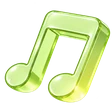
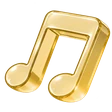
style: 헤더 로고 음표 색을 골드로 변경
Claude-Session: https://claude.ai/code/session_01T6nMnFc5U7nMHTjmumuihz

diff --git a/index.html b/index.html
@@ -43,10 +43,10 @@
   <link rel="preconnect" href="https://fonts.googleapis.com">
   <link rel="preconnect" href="https://fonts.gstatic.com" crossorigin>
   <link rel="stylesheet" href="https://fonts.googleapis.com/css2?family=Unbounded:wght@400;600;800&family=IBM+Plex+Sans+KR:wght@400;500;600&family=JetBrains+Mono:wght@400;500&display=swap">
-  <link rel="stylesheet" href="styles.css?v=20261031f">
+  <link rel="stylesheet" href="styles.css?v=20261031g">
 
   <!-- Script -->
-  <script src="script.js?v=20261031f" defer></script>
+  <script src="script.js?v=20261031g" defer></script>
 
   <!-- 구조화 데이터 -->
   <script type="application/ld+json">
@@ -78,7 +78,7 @@
 
 <header class="top">
   <div class="wrap">
-    <a class="mark" href="#top" aria-label="STÉRO 처음으로"><span class="mark-wave" aria-hidden="true"><svg class="w" viewBox="0 0 340 40" preserveAspectRatio="none"><path d="M0 22.5 L4 24.5 L8 26.2 L12 27.6 L16 28.6 L20 29.3 L24 29.6 L28 29.7 L32 29.5 L36 29.2 L40 28.8 L44 28.3 L48 27.8 L52 27.4 L56 26.9 L60 26.5 L64 26.1 L68 25.7 L72 25.2 L76 24.6 L80 23.8 L84 22.8 L88 21.6 L92 20.2 L96 18.6 L100 16.8 L104 14.9 L108 13.0 L112 11.2 L116 9.5 L120 8.1 L124 7.1 L128 6.4 L132 6.2 L136 6.5 L140 7.3 L144 8.6 L148 10.3 L152 12.2 L156 14.5 L160 16.8 L164 19.2 L168 21.4 L172 23.5 L176 25.4 L180 26.9 L184 28.1 L188 29.0 L192 29.5 L196 29.7 L200 29.6 L204 29.4 L208 29.0 L212 28.5 L216 28.1 L220 27.6 L224 27.1 L228 26.7 L232 26.3 L236 25.9 L240 25.5 L244 24.9 L248 24.2 L252 23.3 L256 22.2 L260 20.9 L264 19.4 L268 17.7 L272 15.9 L276 14.0 L280 12.1 L284 10.3 L288 8.8 L292 7.5 L296 6.7 L300 6.3 L304 6.3 L308 6.9 L312 7.9 L316 9.4 L320 11.2 L324 13.3 L328 15.6 L332 18.0 L336 20.3 L340 22.5"/></svg><svg class="l" viewBox="0 0 340 40" preserveAspectRatio="none"><path d="M0 25.6 L4 25.6 L8 25.3 L12 24.5 L16 23.3 L20 21.9 L24 20.3 L28 18.9 L32 17.6 L36 16.9 L40 16.7 L44 17.1 L48 18.1 L52 19.6 L56 21.3 L60 23.1 L64 24.8 L68 26.1 L72 26.9 L76 27.1 L80 26.8 L84 25.9 L88 24.7 L92 23.3 L96 21.9 L100 20.6 L104 19.7 L108 19.0 L112 18.8 L116 18.8 L120 19.0 L124 19.4 L128 19.9 L132 20.4 L136 20.9 L140 21.4 L144 21.9 L148 22.5 L152 23.1 L156 23.8 L160 24.5 L164 25.1 L168 25.5 L172 25.7 L176 25.5 L180 24.9 L184 23.9 L188 22.6 L192 21.1 L196 19.6 L200 18.2 L204 17.2 L208 16.7 L212 16.8 L216 17.5 L220 18.8 L224 20.4 L228 22.2 L232 24.0 L236 25.5 L240 26.6 L244 27.1 L248 27.0 L252 26.4 L256 25.3 L260 24.0 L264 22.6 L268 21.2 L272 20.1 L276 19.3 L280 18.9 L284 18.7 L288 18.9 L292 19.2 L296 19.7 L300 20.2 L304 20.7 L308 21.2 L312 21.7 L316 22.2 L320 22.8 L324 23.4 L328 24.1 L332 24.8 L336 25.3 L340 25.6"/></svg><svg class="r" viewBox="0 0 340 40" preserveAspectRatio="none"><path d="M0 24.6 L4 25.2 L8 25.1 L12 24.3 L16 23.2 L20 21.9 L24 20.6 L28 19.5 L32 18.6 L36 18.0 L40 17.6 L44 17.2 L48 16.9 L52 16.4 L56 15.8 L60 15.2 L64 14.8 L68 14.5 L72 14.7 L76 15.5 L80 16.8 L84 18.6 L88 20.8 L92 23.0 L96 25.0 L100 26.5 L104 27.1 L108 26.8 L112 25.5 L116 23.3 L120 20.5 L124 17.4 L128 14.5 L132 12.2 L136 10.6 L140 10.2 L144 10.7 L148 12.3 L152 14.6 L156 17.2 L160 19.9 L164 22.3 L168 24.0 L172 25.0 L176 25.2 L180 24.8 L184 23.8 L188 22.5 L192 21.2 L196 20.0 L200 19.0 L204 18.3 L208 17.8 L212 17.4 L216 17.1 L220 16.6 L224 16.1 L228 15.5 L232 15.0 L236 14.6 L240 14.6 L244 15.0 L248 16.1 L252 17.7 L256 19.7 L260 21.9 L264 24.1 L268 25.8 L272 26.9 L276 27.1 L280 26.3 L284 24.5 L288 22.0 L292 19.0 L296 15.9 L300 13.3 L304 11.3 L308 10.3 L312 10.3 L316 11.4 L320 13.4 L324 15.9 L328 18.6 L332 21.1 L336 23.2 L340 24.6"/></svg></span><img class="mark-icon" src="assets/images/site/icon-mark.webp" alt="" width="28" height="28">STÉRO</a>
+    <a class="mark" href="#top" aria-label="STÉRO 처음으로"><span class="mark-wave" aria-hidden="true"><svg class="w" viewBox="0 0 340 40" preserveAspectRatio="none"><path d="M0 22.5 L4 24.5 L8 26.2 L12 27.6 L16 28.6 L20 29.3 L24 29.6 L28 29.7 L32 29.5 L36 29.2 L40 28.8 L44 28.3 L48 27.8 L52 27.4 L56 26.9 L60 26.5 L64 26.1 L68 25.7 L72 25.2 L76 24.6 L80 23.8 L84 22.8 L88 21.6 L92 20.2 L96 18.6 L100 16.8 L104 14.9 L108 13.0 L112 11.2 L116 9.5 L120 8.1 L124 7.1 L128 6.4 L132 6.2 L136 6.5 L140 7.3 L144 8.6 L148 10.3 L152 12.2 L156 14.5 L160 16.8 L164 19.2 L168 21.4 L172 23.5 L176 25.4 L180 26.9 L184 28.1 L188 29.0 L192 29.5 L196 29.7 L200 29.6 L204 29.4 L208 29.0 L212 28.5 L216 28.1 L220 27.6 L224 27.1 L228 26.7 L232 26.3 L236 25.9 L240 25.5 L244 24.9 L248 24.2 L252 23.3 L256 22.2 L260 20.9 L264 19.4 L268 17.7 L272 15.9 L276 14.0 L280 12.1 L284 10.3 L288 8.8 L292 7.5 L296 6.7 L300 6.3 L304 6.3 L308 6.9 L312 7.9 L316 9.4 L320 11.2 L324 13.3 L328 15.6 L332 18.0 L336 20.3 L340 22.5"/></svg><svg class="l" viewBox="0 0 340 40" preserveAspectRatio="none"><path d="M0 25.6 L4 25.6 L8 25.3 L12 24.5 L16 23.3 L20 21.9 L24 20.3 L28 18.9 L32 17.6 L36 16.9 L40 16.7 L44 17.1 L48 18.1 L52 19.6 L56 21.3 L60 23.1 L64 24.8 L68 26.1 L72 26.9 L76 27.1 L80 26.8 L84 25.9 L88 24.7 L92 23.3 L96 21.9 L100 20.6 L104 19.7 L108 19.0 L112 18.8 L116 18.8 L120 19.0 L124 19.4 L128 19.9 L132 20.4 L136 20.9 L140 21.4 L144 21.9 L148 22.5 L152 23.1 L156 23.8 L160 24.5 L164 25.1 L168 25.5 L172 25.7 L176 25.5 L180 24.9 L184 23.9 L188 22.6 L192 21.1 L196 19.6 L200 18.2 L204 17.2 L208 16.7 L212 16.8 L216 17.5 L220 18.8 L224 20.4 L228 22.2 L232 24.0 L236 25.5 L240 26.6 L244 27.1 L248 27.0 L252 26.4 L256 25.3 L260 24.0 L264 22.6 L268 21.2 L272 20.1 L276 19.3 L280 18.9 L284 18.7 L288 18.9 L292 19.2 L296 19.7 L300 20.2 L304 20.7 L308 21.2 L312 21.7 L316 22.2 L320 22.8 L324 23.4 L328 24.1 L332 24.8 L336 25.3 L340 25.6"/></svg><svg class="r" viewBox="0 0 340 40" preserveAspectRatio="none"><path d="M0 24.6 L4 25.2 L8 25.1 L12 24.3 L16 23.2 L20 21.9 L24 20.6 L28 19.5 L32 18.6 L36 18.0 L40 17.6 L44 17.2 L48 16.9 L52 16.4 L56 15.8 L60 15.2 L64 14.8 L68 14.5 L72 14.7 L76 15.5 L80 16.8 L84 18.6 L88 20.8 L92 23.0 L96 25.0 L100 26.5 L104 27.1 L108 26.8 L112 25.5 L116 23.3 L120 20.5 L124 17.4 L128 14.5 L132 12.2 L136 10.6 L140 10.2 L144 10.7 L148 12.3 L152 14.6 L156 17.2 L160 19.9 L164 22.3 L168 24.0 L172 25.0 L176 25.2 L180 24.8 L184 23.8 L188 22.5 L192 21.2 L196 20.0 L200 19.0 L204 18.3 L208 17.8 L212 17.4 L216 17.1 L220 16.6 L224 16.1 L228 15.5 L232 15.0 L236 14.6 L240 14.6 L244 15.0 L248 16.1 L252 17.7 L256 19.7 L260 21.9 L264 24.1 L268 25.8 L272 26.9 L276 27.1 L280 26.3 L284 24.5 L288 22.0 L292 19.0 L296 15.9 L300 13.3 L304 11.3 L308 10.3 L312 10.3 L316 11.4 L320 13.4 L324 15.9 L328 18.6 L332 21.1 L336 23.2 L340 24.6"/></svg></span><img class="mark-icon" src="assets/images/site/icon-mark.webp?v=20261031g" alt="" width="28" height="28">STÉRO</a>
     <nav aria-label="시리즈">
       <a href="#music">Music</a><a href="#lite">Lite</a><a href="#studio">Studio</a><a href="#lab">Lab</a><a href="merge.html">채널 합성</a><a class="ig" href="https://www.instagram.com/stero_lite/" target="_blank" rel="noopener"><i aria-hidden="true"></i>Instagram</a>
     </nav>

diff --git a/merge.html b/merge.html
@@ -40,10 +40,10 @@
   <link rel="preconnect" href="https://fonts.googleapis.com">
   <link rel="preconnect" href="https://fonts.gstatic.com" crossorigin>
   <link rel="stylesheet" href="https://fonts.googleapis.com/css2?family=Unbounded:wght@400;600;800&family=IBM+Plex+Sans+KR:wght@400;500;600&family=JetBrains+Mono:wght@400;500&display=swap">
-  <link rel="stylesheet" href="styles.css?v=20261031f">
+  <link rel="stylesheet" href="styles.css?v=20261031g">
 
   <!-- Script -->
-  <script src="merge.js?v=20261031f" defer></script>
+  <script src="merge.js?v=20261031g" defer></script>
 
   <!-- 구조화 데이터 -->
   <script type="application/ld+json">
@@ -63,7 +63,7 @@
 
 <header class="top">
   <div class="wrap">
-    <a class="mark" href="index.html" aria-label="STÉRO 홈으로"><span class="mark-wave" aria-hidden="true"><svg class="w" viewBox="0 0 340 40" preserveAspectRatio="none"><path d="M0 22.5 L4 24.5 L8 26.2 L12 27.6 L16 28.6 L20 29.3 L24 29.6 L28 29.7 L32 29.5 L36 29.2 L40 28.8 L44 28.3 L48 27.8 L52 27.4 L56 26.9 L60 26.5 L64 26.1 L68 25.7 L72 25.2 L76 24.6 L80 23.8 L84 22.8 L88 21.6 L92 20.2 L96 18.6 L100 16.8 L104 14.9 L108 13.0 L112 11.2 L116 9.5 L120 8.1 L124 7.1 L128 6.4 L132 6.2 L136 6.5 L140 7.3 L144 8.6 L148 10.3 L152 12.2 L156 14.5 L160 16.8 L164 19.2 L168 21.4 L172 23.5 L176 25.4 L180 26.9 L184 28.1 L188 29.0 L192 29.5 L196 29.7 L200 29.6 L204 29.4 L208 29.0 L212 28.5 L216 28.1 L220 27.6 L224 27.1 L228 26.7 L232 26.3 L236 25.9 L240 25.5 L244 24.9 L248 24.2 L252 23.3 L256 22.2 L260 20.9 L264 19.4 L268 17.7 L272 15.9 L276 14.0 L280 12.1 L284 10.3 L288 8.8 L292 7.5 L296 6.7 L300 6.3 L304 6.3 L308 6.9 L312 7.9 L316 9.4 L320 11.2 L324 13.3 L328 15.6 L332 18.0 L336 20.3 L340 22.5"/></svg><svg class="l" viewBox="0 0 340 40" preserveAspectRatio="none"><path d="M0 25.6 L4 25.6 L8 25.3 L12 24.5 L16 23.3 L20 21.9 L24 20.3 L28 18.9 L32 17.6 L36 16.9 L40 16.7 L44 17.1 L48 18.1 L52 19.6 L56 21.3 L60 23.1 L64 24.8 L68 26.1 L72 26.9 L76 27.1 L80 26.8 L84 25.9 L88 24.7 L92 23.3 L96 21.9 L100 20.6 L104 19.7 L108 19.0 L112 18.8 L116 18.8 L120 19.0 L124 19.4 L128 19.9 L132 20.4 L136 20.9 L140 21.4 L144 21.9 L148 22.5 L152 23.1 L156 23.8 L160 24.5 L164 25.1 L168 25.5 L172 25.7 L176 25.5 L180 24.9 L184 23.9 L188 22.6 L192 21.1 L196 19.6 L200 18.2 L204 17.2 L208 16.7 L212 16.8 L216 17.5 L220 18.8 L224 20.4 L228 22.2 L232 24.0 L236 25.5 L240 26.6 L244 27.1 L248 27.0 L252 26.4 L256 25.3 L260 24.0 L264 22.6 L268 21.2 L272 20.1 L276 19.3 L280 18.9 L284 18.7 L288 18.9 L292 19.2 L296 19.7 L300 20.2 L304 20.7 L308 21.2 L312 21.7 L316 22.2 L320 22.8 L324 23.4 L328 24.1 L332 24.8 L336 25.3 L340 25.6"/></svg><svg class="r" viewBox="0 0 340 40" preserveAspectRatio="none"><path d="M0 24.6 L4 25.2 L8 25.1 L12 24.3 L16 23.2 L20 21.9 L24 20.6 L28 19.5 L32 18.6 L36 18.0 L40 17.6 L44 17.2 L48 16.9 L52 16.4 L56 15.8 L60 15.2 L64 14.8 L68 14.5 L72 14.7 L76 15.5 L80 16.8 L84 18.6 L88 20.8 L92 23.0 L96 25.0 L100 26.5 L104 27.1 L108 26.8 L112 25.5 L116 23.3 L120 20.5 L124 17.4 L128 14.5 L132 12.2 L136 10.6 L140 10.2 L144 10.7 L148 12.3 L152 14.6 L156 17.2 L160 19.9 L164 22.3 L168 24.0 L172 25.0 L176 25.2 L180 24.8 L184 23.8 L188 22.5 L192 21.2 L196 20.0 L200 19.0 L204 18.3 L208 17.8 L212 17.4 L216 17.1 L220 16.6 L224 16.1 L228 15.5 L232 15.0 L236 14.6 L240 14.6 L244 15.0 L248 16.1 L252 17.7 L256 19.7 L260 21.9 L264 24.1 L268 25.8 L272 26.9 L276 27.1 L280 26.3 L284 24.5 L288 22.0 L292 19.0 L296 15.9 L300 13.3 L304 11.3 L308 10.3 L312 10.3 L316 11.4 L320 13.4 L324 15.9 L328 18.6 L332 21.1 L336 23.2 L340 24.6"/></svg></span><img class="mark-icon" src="assets/images/site/icon-mark.webp" alt="" width="28" height="28">STÉRO</a>
+    <a class="mark" href="index.html" aria-label="STÉRO 홈으로"><span class="mark-wave" aria-hidden="true"><svg class="w" viewBox="0 0 340 40" preserveAspectRatio="none"><path d="M0 22.5 L4 24.5 L8 26.2 L12 27.6 L16 28.6 L20 29.3 L24 29.6 L28 29.7 L32 29.5 L36 29.2 L40 28.8 L44 28.3 L48 27.8 L52 27.4 L56 26.9 L60 26.5 L64 26.1 L68 25.7 L72 25.2 L76 24.6 L80 23.8 L84 22.8 L88 21.6 L92 20.2 L96 18.6 L100 16.8 L104 14.9 L108 13.0 L112 11.2 L116 9.5 L120 8.1 L124 7.1 L128 6.4 L132 6.2 L136 6.5 L140 7.3 L144 8.6 L148 10.3 L152 12.2 L156 14.5 L160 16.8 L164 19.2 L168 21.4 L172 23.5 L176 25.4 L180 26.9 L184 28.1 L188 29.0 L192 29.5 L196 29.7 L200 29.6 L204 29.4 L208 29.0 L212 28.5 L216 28.1 L220 27.6 L224 27.1 L228 26.7 L232 26.3 L236 25.9 L240 25.5 L244 24.9 L248 24.2 L252 23.3 L256 22.2 L260 20.9 L264 19.4 L268 17.7 L272 15.9 L276 14.0 L280 12.1 L284 10.3 L288 8.8 L292 7.5 L296 6.7 L300 6.3 L304 6.3 L308 6.9 L312 7.9 L316 9.4 L320 11.2 L324 13.3 L328 15.6 L332 18.0 L336 20.3 L340 22.5"/></svg><svg class="l" viewBox="0 0 340 40" preserveAspectRatio="none"><path d="M0 25.6 L4 25.6 L8 25.3 L12 24.5 L16 23.3 L20 21.9 L24 20.3 L28 18.9 L32 17.6 L36 16.9 L40 16.7 L44 17.1 L48 18.1 L52 19.6 L56 21.3 L60 23.1 L64 24.8 L68 26.1 L72 26.9 L76 27.1 L80 26.8 L84 25.9 L88 24.7 L92 23.3 L96 21.9 L100 20.6 L104 19.7 L108 19.0 L112 18.8 L116 18.8 L120 19.0 L124 19.4 L128 19.9 L132 20.4 L136 20.9 L140 21.4 L144 21.9 L148 22.5 L152 23.1 L156 23.8 L160 24.5 L164 25.1 L168 25.5 L172 25.7 L176 25.5 L180 24.9 L184 23.9 L188 22.6 L192 21.1 L196 19.6 L200 18.2 L204 17.2 L208 16.7 L212 16.8 L216 17.5 L220 18.8 L224 20.4 L228 22.2 L232 24.0 L236 25.5 L240 26.6 L244 27.1 L248 27.0 L252 26.4 L256 25.3 L260 24.0 L264 22.6 L268 21.2 L272 20.1 L276 19.3 L280 18.9 L284 18.7 L288 18.9 L292 19.2 L296 19.7 L300 20.2 L304 20.7 L308 21.2 L312 21.7 L316 22.2 L320 22.8 L324 23.4 L328 24.1 L332 24.8 L336 25.3 L340 25.6"/></svg><svg class="r" viewBox="0 0 340 40" preserveAspectRatio="none"><path d="M0 24.6 L4 25.2 L8 25.1 L12 24.3 L16 23.2 L20 21.9 L24 20.6 L28 19.5 L32 18.6 L36 18.0 L40 17.6 L44 17.2 L48 16.9 L52 16.4 L56 15.8 L60 15.2 L64 14.8 L68 14.5 L72 14.7 L76 15.5 L80 16.8 L84 18.6 L88 20.8 L92 23.0 L96 25.0 L100 26.5 L104 27.1 L108 26.8 L112 25.5 L116 23.3 L120 20.5 L124 17.4 L128 14.5 L132 12.2 L136 10.6 L140 10.2 L144 10.7 L148 12.3 L152 14.6 L156 17.2 L160 19.9 L164 22.3 L168 24.0 L172 25.0 L176 25.2 L180 24.8 L184 23.8 L188 22.5 L192 21.2 L196 20.0 L200 19.0 L204 18.3 L208 17.8 L212 17.4 L216 17.1 L220 16.6 L224 16.1 L228 15.5 L232 15.0 L236 14.6 L240 14.6 L244 15.0 L248 16.1 L252 17.7 L256 19.7 L260 21.9 L264 24.1 L268 25.8 L272 26.9 L276 27.1 L280 26.3 L284 24.5 L288 22.0 L292 19.0 L296 15.9 L300 13.3 L304 11.3 L308 10.3 L312 10.3 L316 11.4 L320 13.4 L324 15.9 L328 18.6 L332 21.1 L336 23.2 L340 24.6"/></svg></span><img class="mark-icon" src="assets/images/site/icon-mark.webp?v=20261031g" alt="" width="28" height="28">STÉRO</a>
     <nav aria-label="시리즈">
       <a href="index.html#music">Music</a><a href="index.html#lite">Lite</a><a href="index.html#studio">Studio</a><a href="index.html#lab">Lab</a><a href="merge.html" aria-current="page">채널 합성</a>
     </nav>

diff --git a/delete-account.html b/delete-account.html
@@ -24,7 +24,7 @@
   <link rel="preconnect" href="https://fonts.googleapis.com">
   <link rel="preconnect" href="https://fonts.gstatic.com" crossorigin>
   <link rel="stylesheet" href="https://fonts.googleapis.com/css2?family=Unbounded:wght@400;600;800&family=IBM+Plex+Sans+KR:wght@400;500;600&family=JetBrains+Mono:wght@400;500&display=swap">
-  <link rel="stylesheet" href="styles.css?v=20261031f">
+  <link rel="stylesheet" href="styles.css?v=20261031g">
 </head>
 <body>
   <div class="privacy-page">

diff --git a/privacy.html b/privacy.html
@@ -24,7 +24,7 @@
   <link rel="preconnect" href="https://fonts.googleapis.com">
   <link rel="preconnect" href="https://fonts.gstatic.com" crossorigin>
   <link rel="stylesheet" href="https://fonts.googleapis.com/css2?family=Unbounded:wght@400;600;800&family=IBM+Plex+Sans+KR:wght@400;500;600&family=JetBrains+Mono:wght@400;500&display=swap">
-  <link rel="stylesheet" href="styles.css?v=20261031f">
+  <link rel="stylesheet" href="styles.css?v=20261031g">
 </head>
 <body>
   <div class="privacy-page">

diff --git a/terms.html b/terms.html
@@ -24,7 +24,7 @@
   <link rel="preconnect" href="https://fonts.googleapis.com">
   <link rel="preconnect" href="https://fonts.gstatic.com" crossorigin>
   <link rel="stylesheet" href="https://fonts.googleapis.com/css2?family=Unbounded:wght@400;600;800&family=IBM+Plex+Sans+KR:wght@400;500;600&family=JetBrains+Mono:wght@400;500&display=swap">
-  <link rel="stylesheet" href="styles.css?v=20261031f">
+  <link rel="stylesheet" href="styles.css?v=20261031g">
 </head>
 <body>
   <div class="privacy-page">

diff --git a/개발일지.md b/개발일지.md
@@ -2,9 +2,9 @@
 
 최신 항목이 위. 각 항목은 "무엇을 / 왜 / 확인 결과 / 남은 것" 순. 이 파일은 `_config.yml`의 `exclude`로 사이트에 공개되지 않는다.
 
-## ▶ 다음 세션 시작 안내 (2026-10-31 13:14 기준)
+## ▶ 다음 세션 시작 안내 (2026-10-31 13:18 기준)
 
-- **현재 상태**: 시리즈 홈페이지 개편·채널 합성 웹 도구·약관 개정·검색 등록·Hero 모션·푸터·헤더 로고 파장·한글 머리글/칩 자간·헤더 로고 그린 음표 아이콘까지 모두 `main`에 배포 완료. 마지막 기능 커밋 `cff6ecf` + 이 일지 커밋. 사용자 결정을 기다리는 항목 없음. CSS/JS 버전 표시 `?v=20261031f`
+- **현재 상태**: 시리즈 홈페이지 개편·채널 합성 웹 도구·약관 개정·검색 등록·Hero 모션·푸터·헤더 로고 파장·한글 머리글/칩 자간·헤더 로고 골드 음표 아이콘까지 모두 `main`에 배포 완료. 마지막 커밋은 헤더 로고 골드 색 변경. 사용자 결정을 기다리는 항목 없음. CSS/JS 버전 표시 `?v=20261031g`(로고 `<img>`에도 붙음)
 - **배포 = `main` 푸시**(GitHub Pages, 1~2분). 푸시 전 사용자 승인, 푸시 후 `curl`로 반영 확인. CSS·JS를 바꾸면 5개 HTML의 `?v=` 를 함께 올린다(10분 캐시)
 - **검증 도구**: 로컬 `python3 -m http.server 8765` + headless Chrome CDP(`--remote-debugging-port`, Node 24 내장 WebSocket). Safari는 `safaridriver -p 4455`(사용자가 원격 자동화·`safaridriver --enable` 완료) — 같은 세션에서 비교해야 프레임 수가 믿을 만하다(창이 가려지면 16fps처럼 떨어짐)
 - **사용자 할 일**: ① 약관 개정(11-06 시행) 앱 내 공지 ② 며칠 뒤 구글 서치 콘솔·네이버 서치어드바이저 수집 현황 확인 ③ 인스타·스토어 설명에 사이트 주소 넣기
@@ -18,7 +18,13 @@
 
 ## 2026-10-31
 
-> 오늘 요약: 라이브 화면 직접 점검 → 배지 그림자 충돌·모바일 이동 버튼 수정, 헤더 로고 뒤 파장 모션 추가, 한글 머리글·칩 자간 정리, 헤더 로고를 음표 아이콘으로 교체(크림·골드 → 사용자가 준 그린 음표). 모두 배포·반영 확인
+> 오늘 요약: 라이브 화면 직접 점검 → 배지 그림자 충돌·모바일 이동 버튼 수정, 헤더 로고 뒤 파장 모션 추가, 한글 머리글·칩 자간 정리, 헤더 로고를 음표 아이콘으로 교체(크림·골드 → 사용자가 준 그린 음표 → 같은 음표를 골드로). 모두 배포·반영 확인
+
+### 13:18 — 헤더 로고 음표 색을 골드로
+- **무엇을**: 그린 음표 원본(`음표아이콘.png`)의 색상을 모든 픽셀 43°(골드)로 고정하고 채도 ×1.1 → `icon-mark.webp`(112px) 다시 생성. 색상을 일정 각도만 돌리면 노란 부분이 주황·분홍으로 번져서 고정 색상 방식을 씀. 같은 파일 이름이라 이미지도 10분 캐시되므로 `index.html`·`merge.html`의 `<img src>`에 `?v=20261031g`를 붙임. CSS/JS `?v=20261031g`
+- **왜**: 사용자가 로고 색을 골드로 요청
+- **확인**: 로컬 CDP 캡처(다크·라이트·390px) — 골드 음표 선명, JS 오류 없음
+- **남은 것**: 없음
 
 ### 13:13 — 헤더 로고 → 그린 음표 아이콘(투명 배경) (`cff6ecf`)
 - **무엇을**: `icon-mark.webp`를 사용자가 준 `앱 개발/STERO Lite/STERO Lite Android 2.1/음표아이콘.png`(1254px, 투명 배경)를 여백만 잘라 112px로 줄인 것으로 교체. 투명 아이콘이라 `.mark-icon`의 둥근 모서리·테두리 그림자를 빼고 `filter: drop-shadow`만 남김. CSS/JS `?v=20261031f`

diff --git a/CLAUDE.md b/CLAUDE.md
@@ -79,7 +79,7 @@ python3 -m http.server 8000   # http://localhost:8000
 
 ## 에셋
 
-- 사이트 이미지: `assets/images/site/*.webp` (원본을 줄여 WebP로 변환한 것). 접두어: `ios-`/`m-`(STÉRO MUSIC), `pad-`(iPad), `card-`(인스타 생일 카드), `lite-`·`and-`(Android), `chat-`(STÉRO Chat), `icon-`(앱 아이콘 — Lite 그린·Studio 코랄은 원본 아이콘 색만 바꾼 웹용 변형. 헤더 로고 `icon-mark`는 투명 배경 그린 음표 `앱 개발/STERO Lite/STERO Lite Android 2.1/음표아이콘.png`를 줄인 것)
+- 사이트 이미지: `assets/images/site/*.webp` (원본을 줄여 WebP로 변환한 것). 접두어: `ios-`/`m-`(STÉRO MUSIC), `pad-`(iPad), `card-`(인스타 생일 카드), `lite-`·`and-`(Android), `chat-`(STÉRO Chat), `icon-`(앱 아이콘 — Lite 그린·Studio 코랄은 원본 아이콘 색만 바꾼 웹용 변형. 헤더 로고 `icon-mark`는 투명 배경 그린 음표 `앱 개발/STERO Lite/STERO Lite Android 2.1/음표아이콘.png`의 색상을 골드(43°, 채도 ×1.1)로 고정해 줄인 것. 이미지는 같은 이름으로 바꾸므로 `<img>` 주소에도 `?v=`를 붙여 캐시를 피한다)
 - 원본 출처: iOS `앱 개발/STERO Lite/STERO Lite 스크린샷 이미지/`, Android·Chat은 실기기(adb) 캡처와 앱 `drawable-nodpi` 사용 설명 이미지. 실기기 캡처는 상태 표시줄·시스템 바를 잘라 내고, 이메일·관리자 표시 같은 개인 정보는 쓰지 않는다
 - 예전 랜딩의 `assets/images/<번호>.png`, `iPad Pro/`는 현재 페이지에서 쓰지 않는다(`Play.jpg`는 OG 이미지로 사용 중)
 - 파비콘: `assets/images/favicon_io/` (모든 페이지 `<head>`에서 동일하게 참조)
